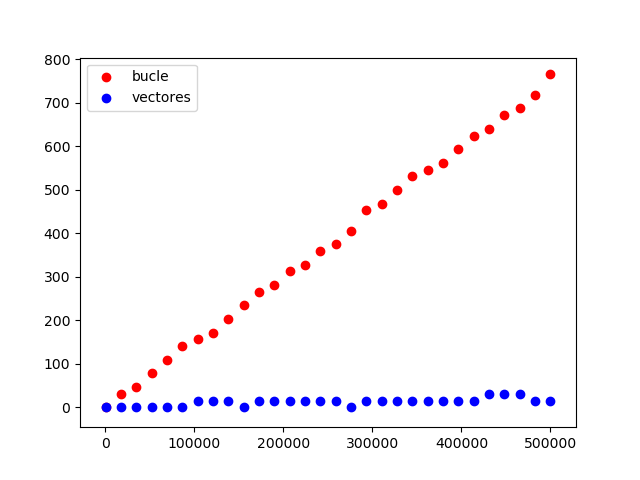
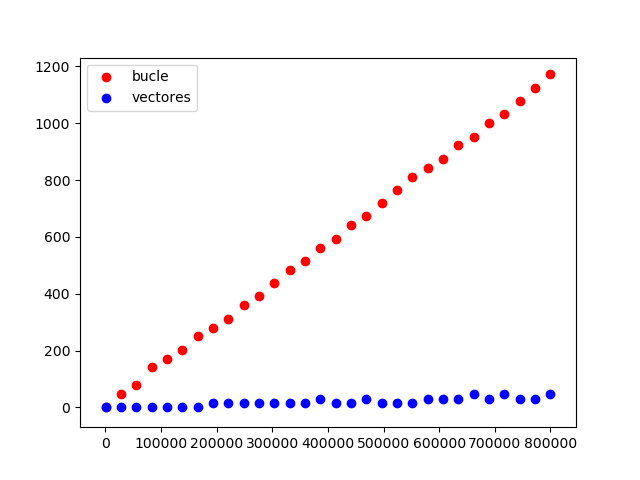
Refactor for practice 0

diff --git a/practica-0/p0.py b/practica-0/p0.py
@@ -6,39 +6,31 @@ import random
 
 
 def integra_mc_bucle(fun, a, b, num_puntos=10000):
-    """ Calcula la integral entre a y b de una funcion por el método de Monte Carlo, sin hacer uso
-    de las librerias de numpy. Devuelve el tiempo que ha invertido en realizar la operación
+    """
+    Calculates the integral between a and b of a function by using the Monte Carlo method.
+    This function does not use the numpy library so it is less eficient than the other version
     """
     tic = time.process_time()
-    function_points = []
 
-    # Generamos puntos pertenecientes a la funcion y nos quedamos con el mayor
+    # We are trying to pick the highest value for the function, given the interval.
     M = -1
     for number in range(num_puntos):
-        x = random.uniform(a, b)
-        y = fun(x)
-        function_points.append((x, y))
-        if y > M:
-            M = y
+        M = max(M, fun(random.uniform(a, b)))
 
-    # Generar puntos aleatorios dentro del cuadrado
+    # Now, we generate random point inside the rectangle with area A = (b - a) * M
     Ndebajo = 0
-    Ntotal = 0
+    Ntotal = num_puntos
     for number in range(num_puntos):
-        x = random.uniform(a, b)
-        y = random.uniform(0, M)
-
-        y_func = fun(x)
-        if y < y_func:
+        # We compare if the random points are under the function
+        if random.uniform(0, M) < fun(random.uniform(a, b)):
             Ndebajo += 1
 
-        Ntotal += 1
-
+    # Finally, the formula to get an aproximate value
     I = (Ndebajo / Ntotal) * (b - a) * M
 
     toc = time.process_time()
 
-    return 1000 * (toc - tic)
+    return {"time": 1000 * (toc - tic), "value": I}
 
 
 def integra_mc_vectores(fun, a, b, num_puntos=10000):
@@ -46,40 +38,45 @@ def integra_mc_vectores(fun, a, b, num_puntos=10000):
     haciendo uso de la librería de numpy. Devuelve el tiempo que ha invertido en realizar la operación """
 
     tic = time.process_time()
-    ys = fun(np.random.uniform(a, b, num_puntos))
 
-    M = np.max(ys)
+    #  We are trying to pick the highest value for the function, given the interval.
+    M = np.max(fun(np.random.uniform(a, b, num_puntos)))
 
-    xsr = np.random.uniform(a, b, num_puntos)  # x aleatorias
-    ysr = np.random.uniform(0, M, num_puntos)  # y aleatorias
+    # Now, we generate random point inside the rectangle with area A = (b - a) * M
+    ysr = np.random.uniform(0, M, num_puntos)  # y coordinates randomly generated
+    ys_from_random_xs = fun(
+        np.random.uniform(a, b, num_puntos)
+    )  # f(x) where x is randomly generated
 
-    # Cada par de (xsr[i], ysr[i]) es una coordenada
-
-    ysfr = fun(xsr)  # las f(x) de las x aleatorias
-
-    ysfr = ysfr[ysr < ysfr]
+    # We compare if the random points are under the function
+    ysfr_under_fun = ys_from_random_xs[ysr < ys_from_random_xs]
 
     Ntotal = num_puntos
-    Ndebajo = len(ysfr)
+    Ndebajo = len(ysfr_under_fun)
 
+    # Finally, the formula to get an aproximate value
     I = (Ndebajo / Ntotal) * (b - a) * M
 
     toc = time.process_time()
 
-    return 1000 * (toc - tic)
+    return {"time": 1000 * (toc - tic), "value": I}
 
 
 def compara_tiempos():
 
-    num_points = np.linspace(100, 500000, 30)
+    num_points = np.linspace(100, 800000, 30)
 
     times_loop = []
     times_vectors = []
     func = lambda x: x ** 2
 
     for points in num_points:
-        times_loop.append(integra_mc_bucle(func, 10, 20, num_puntos=int(points)))
-        times_vectors.append(integra_mc_vectores(func, 10, 20, num_puntos=int(points)))
+        times_loop.append(
+            integra_mc_bucle(func, 10, 20, num_puntos=int(points))["time"]
+        )
+        times_vectors.append(
+            integra_mc_vectores(func, 10, 20, num_puntos=int(points))["time"]
+        )
 
     plt.figure()
     plt.scatter(num_points, times_loop, c="red", label="bucle")
@@ -91,3 +88,21 @@ def compara_tiempos():
 
 compara_tiempos()
 
+"""
+
+def square(x):
+    return x ** 2
+
+print(
+    "Usando bucles: {}".format(
+        integra_mc_bucle(square, 10, 20, num_puntos=100000)["value"]
+    )
+)
+print(
+    "Usando numpy: {}".format(
+        integra_mc_vectores(square, 10, 20, num_puntos=100000)["value"]
+    )
+)
+print("Dato real: {}".format(integrate.quad(square, 10, 20)[0]))
+
+"""
